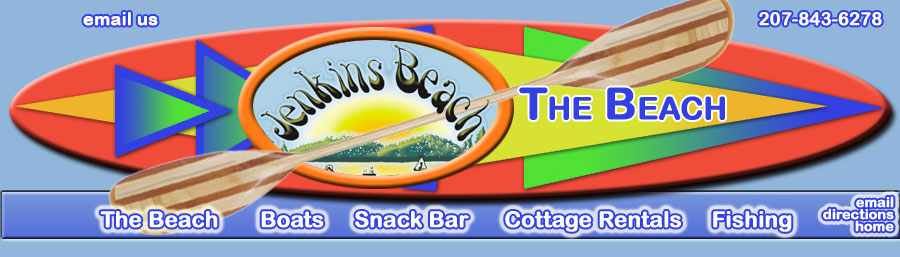
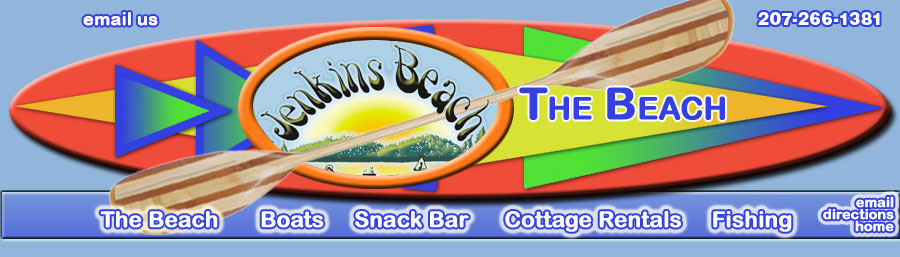
change adults to $5 and primary phonenumber

Changed region(s): [[0.84, 0.0311, 0.9956, 0.1245]]

diff --git a/jenkinsbeach.com/contact.html b/jenkinsbeach.com/contact.html
@@ -52,17 +52,17 @@ j=d.createElement(s),dl=l!='dataLayer'?'&l='+l:'';j.async=true;j.src=
           <table width="640" border="0" align="center" cellpadding="5" cellspacing="0">
             <tr>
               <td>If you need to know how to reach our Beach, just
-              <a href="#map">click here</a> or scroll down a bit. We have a 
+              <a href="#map">click here</a> or scroll down a bit. We have a
               Google map to help you.
               <p>
-We would love to hear from you <a href="#emailform">via email</a>, be you a past 
-visitor or someone new to us who needs more information. While we would love to 
-be able to promise a prompt reply, but we don&#39;t have a computer at the beach and 
-that is where we are most of the summer. We do check our email at least twice a 
-week. So if you need a quick reply, don&#39;t despair. Just pick up the phone and 
+We would love to hear from you <a href="#emailform">via email</a>, be you a past
+visitor or someone new to us who needs more information. While we would love to
+be able to promise a prompt reply, but we don&#39;t have a computer at the beach and
+that is where we are most of the summer. We do check our email at least twice a
+week. So if you need a quick reply, don&#39;t despair. Just pick up the phone and
 give us a call at <b>207-843-6278.</b></p>
               <p>
-If you don&#39;t need us right this minute, just fill out our form below and we&#39;ll 
+If you don&#39;t need us right this minute, just fill out our form below and we&#39;ll
 get back to you just as soon as we are able. It might just be a couple of days.
               </p>
               <blockquote>
@@ -77,7 +77,7 @@ get back to you just as soon as we are able. It might just be a couple of days.
 			<table border="0" cellpadding="5" style="border-collapse: collapse" width="100%" bordercolor="#000000">
 				<tr>
 					<td>
-					<form method="POST" action="http://www.jenkinsbeach.com/formmail.php">
+					<form method="POST" action="https://www.jenkinsbeach.com/formmail.php">
 					    <input type="hidden" name="recipients" value="jobeach1@yahoo.com">
 					    <input type="hidden" name="subject" value="Jenkins Beach Web Site Form">
 						<input type="hidden" name="good_url" value="http://jenkinsbeach.com/thanks.html">
@@ -89,7 +89,7 @@ get back to you just as soon as we are able. It might just be a couple of days.
 						<br>
                         <a name="emailform">
 						<textarea rows="8" name="Message" cols="73"></textarea></a><br>
-						<i><font size="1">Your questions or comments are very 
+						<i><font size="1">Your questions or comments are very
                         important to us.</font></i></p>
 						<p class="MsoNormal" style="margin-bottom: .0001pt" align="left"><i>
 						<font size="1"><input type="text" name="Name" size="70"><br>
@@ -101,11 +101,11 @@ get back to you just as soon as we are able. It might just be a couple of days.
 						<p class="MsoNormal" style="margin-bottom: .0001pt" align="left"><i>
 						<font size="1">
 						<input type="text" name="phone" size="70"><br>
-						Your phone number<b> (S)</b> if you would rather we give 
+						Your phone number<b> (S)</b> if you would rather we give
                         you a call back.</font></i></p>
 						<p class="MsoNormal" style="line-height: 150%; text-indent: -25px; margin-left: 25px; margin-bottom: .0001pt" align="left">
 						<input type="submit" value="Submit" name="B1"><input type="reset" value="Reset" name="B2"></p>
-						
+
 					</form>
 					</td>
 				</tr>
@@ -115,8 +115,13 @@ get back to you just as soon as we are able. It might just be a couple of days.
             <tr>
               <td>
                 <p>If using a GPS device, use the city of Dedham, ME 04429</p>
-                &nbsp;<a name="map"><div style="overflow:hidden;height:500px;width:500px;max-width:100%;"><div id="gmap_canvas" style="height:500px;width:500px;max-width:100%;"><iframe style="height:100%;width:100%;border:0;" frameborder="0" src="https://www.google.com/maps/embed/v1/place?q=Jenkins+Drive,+Dedham,+ME,+United+States&key=AIzaSyAN0om9mFmy1QN6Wf54tXAowK4eT0ZUPrU"></iframe></div><a class="google-map-code" href="http://www.bootstrapskins.com" id="get-map-data">bootstrap</a><style>#gmap_canvas img{max-width:none!important;background:none!important}</style></div>
-                </a><br /><small><a href="http://maps.google.com/maps?f=q&amp;hl=en&amp;geocode=&amp;q=1+Jenkins+Drive,+Dedham,+Maine&amp;sll=44.6714,-68.551544&amp;sspn=0.004837,0.011072&amp;ie=UTF8&amp;t=h&amp;ll=44.680189,-68.548079&amp;spn=0.009675,0.022144&amp;z=14&amp;iwloc=addr&amp;source=embed" style="color:#0000FF;text-align:left">View Larger Map</a></small></td>
+                &nbsp;<a name="map"><div style="overflow:hidden;height:500px;width:500px;max-width:100%;">
+								<div id="gmap_canvas" style="height:500px;width:500px;max-width:100%;">
+								  <iframe src="https://www.google.com/maps/embed?pb=!1m14!1m8!1m3!1d27512.32004221504!2d-68.548079!3d44.680189!3m2!1i1024!2i768!4f13.1!3m3!1m2!1s0x4cae5643a7ce4e29%3A0x893d2956f409fe4d!2sJenkins+Dr%2C+Ellsworth%2C+ME+04605!5e1!3m2!1sen!2sus!4v1530104947094" width="600" height="450" frameborder="0" style="border:0" allowfullscreen></iframe>
+								</div>
+								<br />
+								<small><a href="http://maps.google.com/maps?f=q&amp;hl=en&amp;geocode=&amp;q=1+Jenkins+Drive,+Dedham,+Maine&amp;sll=44.6714,-68.551544&amp;sspn=0.004837,0.011072&amp;ie=UTF8&amp;t=h&amp;ll=44.680189,-68.548079&amp;spn=0.009675,0.022144&amp;z=14&amp;iwloc=addr&amp;source=embed" style="color:#0000FF;text-align:left">View Larger Map</a></small>
+							</td>
             </tr>
             </table>
           <p>&nbsp;</p></td>

diff --git a/jenkinsbeach.com/beach.html b/jenkinsbeach.com/beach.html
@@ -73,10 +73,10 @@ j=d.createElement(s),dl=l!='dataLayer'?'&l='+l:'';j.async=true;j.src=
                 </tr>
 
               </table>
-                <p>Bring your own picnic lunch to enjoy on your blanket or on  our tables. Or for a carefree day, enjoy lunch and snacks in our Snack Bar. We  serve hot dogs, hamburgers, French fries, ice cream, soda and candy. The <a href="snackbar.html" class="style3">Snack  Bar</a> is open from 10 - 4 ev<span class="style4">eryday.</span></p>                
+                <p>Bring your own picnic lunch to enjoy on your blanket or on  our tables. Or for a carefree day, enjoy lunch and snacks in our Snack Bar. We  serve hot dogs, hamburgers, French fries, ice cream, soda and candy. The <a href="snackbar.html" class="style3">Snack  Bar</a> is open from 10 - 4 ev<span class="style4">eryday.</span></p>
                 <ul style=>
                   <li>Beach is open daily until sunset</li>
-                  <li> $4.00 a day for adults</li>
+                  <li> $5.00 a day for adults</li>
                   <li> $2.00 for kids 2-11</li>
                   <li> Under 2 Free<br />
                     <br />
@@ -96,7 +96,7 @@ j=d.createElement(s),dl=l!='dataLayer'?'&l='+l:'';j.async=true;j.src=
             </tr>
             <tr>
               <td><div align="center">
-                <h3>Note… Swimming is at your own risk. 
+                <h3>Note… Swimming is at your own risk.
                   There is no lifeguard on  duty.</h3>
               </div></td>
             </tr>
